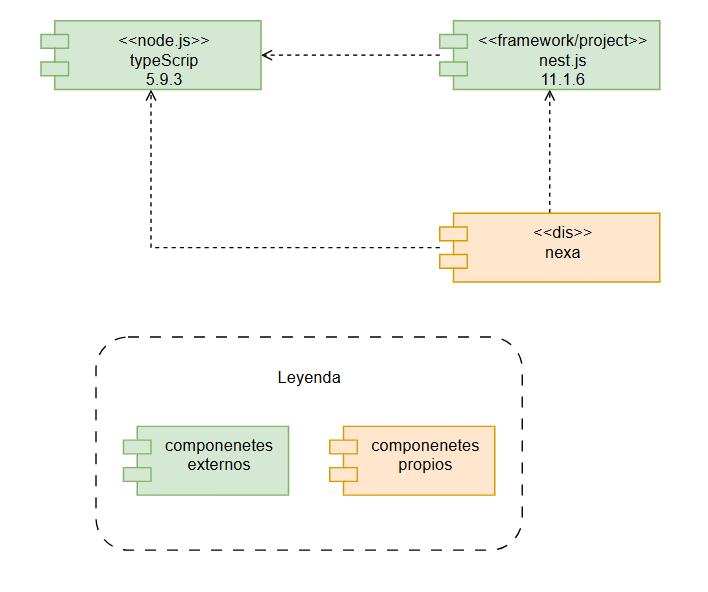
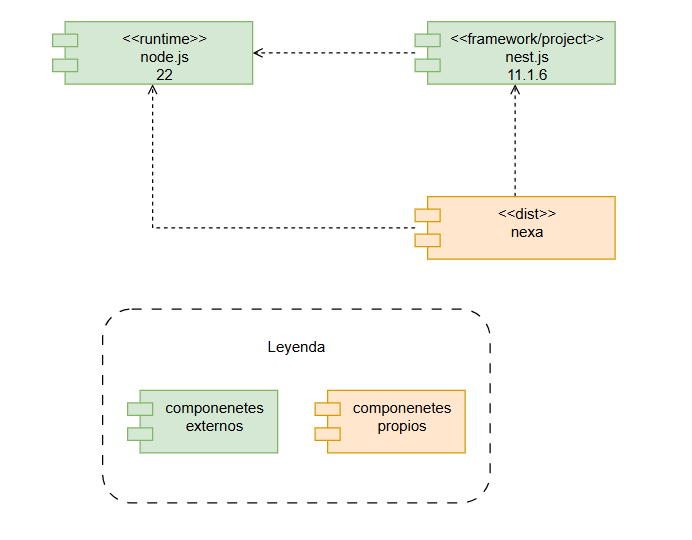
puliendo detalles de documentacion

diff --git a/docs/componentes_backend.md b/docs/componentes_backend.md
@@ -2,8 +2,9 @@
 
 Descripción: Diagrama que muestra el 100% de los componentes que serán construidos o adoptados para proceder con la construcción del componente indicado. Adicionalmente, indica cómo estos componentes están relacionados.
 
-| Componente | Descripción | Motivación | Depende/Usa | Tipo |
-| :--- | :--- | :--- | :--- | :--- |
-| Nexa | Componente que representa el **backend de la aplicación Nexa** que publica todos los servicios de negocio que esta en la capacidad de ofrecer. Contiene toda la lógica de la aplicación que va a ser ofrecida por medio de **servicios REST**. | | | Componente a desarrollar |
-| Nest.js 11.1.6 | Componente usado para acelerar el desarrollo de una aplicación, respecto a aquellos aspectos no hacen parte del core base o principal de negocio. | **Acelerar el desarrollo** y concentrar los esfuerzos del equipo en tareas y aspectos netamente del negocio. | TypeScript 5.9.3 | Frameworks/Aceleradores |
-| TypeScript 5.9.3 | Plataforma base de desarrollo bajo el lenguaje de TypeScript. Es un lenguaje multiplataforma que por su gran capacidad, ha demostrado que puede ser utilizado para construir aplicaciones tanto livianas como empresariales, con excelentes prestaciones de rendimiento y seguridad. | | | Plataforma base |
+
+| **Componente** | **Estereotipo / Versión** | **Descripción** | **Motivación** | **Depende / Usa** | **Tipo** |
+| --------------- | -------------------------- | ---------------- | ---------------- | ------------------ | -------- |
+| **Nexa** | <<>dist>> nexa | Componente que representa el backend de la aplicación **Nexa** que publica todos los servicios de negocio que está en la capacidad de ofrecer. Contiene toda la lógica de la aplicación que va a ser ofrecida por medio de servicios REST. | Artefacto distribuible final de la solución de backend. | **Nest.js 11.1.6**, **Node.js 22** | **Componente Propio a desarrollar** |
+| **Nest.js 11.1.6** | <<>framework/project>> nest.js 11.1.6 | Framework usado para acelerar el desarrollo de una aplicación, respecto a aquellos aspectos que no hacen parte del core base o principal de negocio. | Acelerar el desarrollo y concentrar los esfuerzos del equipo en tareas y aspectos netamente del negocio. | **Node.js 22** | **Componente Externo (Framework/Acelerador)** |
+| **Node.js 22** | <<>runtime>> node.js 22 | Ambiente de ejecución (Runtime) basado en el motor **V8** que ejecuta el código JavaScript (transpilado desde TypeScript). Es la plataforma base para el backend. | Plataforma base que provee el runtime y las librerías Core necesarias para la ejecución del framework y la aplicación con prestaciones de rendimiento y concurrencia. | — | **Componente Externo (Runtime)** |

diff --git a/docs/componentes_front.md b/docs/componentes_front.md
@@ -1,7 +1,7 @@
 ## Diagrama de Componentes para el Componente: Nexa (Frontend)
 
-| Componente | Descripción | Motivación | Depende/Usa | Tipo |
-| :--- | :--- | :--- | :--- | :--- |
-| **Nexa** | Componente que representa el **frontend de la aplicación Nexa**, construido sobre un framework para interfaces de usuario reactivas y optimizadas para web. Integra lógica de presentación y consumo de servicios externos. | | nuxt.js 4, TypeScript 5.9.3 | Componente a desarrollar |
-| **nuxt.js 4** | Framework basado en Vue.js para el desarrollo de aplicaciones web full-stack, con soporte para SSR, SSG y características como auto-imports y routing automático. | Acelerar el desarrollo y concentrar los esfuerzos del equipo en tareas y aspectos netamente del negocio, facilitando la creación de interfaces modernas y performantes. | TypeScript 5.9.3 | Frameworks/Aceleradores |
-| **TypeScript 5.9.3** | Plataforma base de desarrollo bajo el lenguaje de TypeScript. Es un lenguaje multiplataforma que por su gran capacidad, ha demostrado que puede ser utilizado para construir aplicaciones tanto livianas como empresariales, con excelentes prestaciones de rendimiento y seguridad. | | | Plataforma base |
+| **Componente** | **Estereotipo / Versión** | **Descripción** | **Motivación** | **Depende / Usa** | **Tipo** |
+| --------------- | -------------------------- | ---------------- | ---------------- | ------------------ | -------- |
+| **Nexa** | <<>dist>> nexa | Componente que representa el **frontend** de la aplicación Nexa, construido sobre un framework para interfaces de usuario reactivas y optimizadas para web. Integra lógica de presentación y consumo de servicios externos. | Artefacto final de la solución de frontend. | **nuxt.js 4**, **Node.js 22** | **Componente Propio a desarrollar** |
+| **nuxt.js 4** | <<>framework/project>> nuxt.js 4 | Framework basado en **Vue.js** para el desarrollo de aplicaciones web full-stack, con soporte para **SSR (Server-Side Rendering)**, **SSG**, y características de optimización. | Acelerar el desarrollo y concentrar los esfuerzos del equipo en tareas y aspectos netamente del negocio, facilitando la creación de interfaces modernas y performantes. | **Node.js 22** | **Componente Externo (Framework/Acelerador)** |
+| **Node.js 22** | <<>runtime>> Node.js 22 | Ambiente de ejecución para el código **JavaScript/TypeScript**. Permite que **Nuxt.js** y el artefacto **Nexa** puedan ser ejecutados en el servidor (para SSR/SSG) o en el proceso de compilación. | Es la plataforma base que provee el motor **V8** y el **Event Loop** necesarios para la ejecución del framework y la aplicación. | — | **Componente Externo (Runtime)** |
